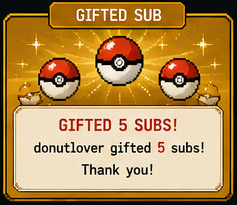
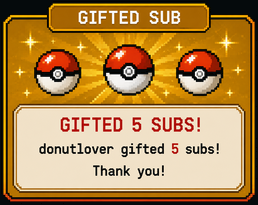
polish alerts

diff --git a/test_events.py b/test_events.py
@@ -3,20 +3,39 @@ import json
 import sys
 import time
 from pathlib import Path
+from sound_engine import SoundEngine
 
 BASE = Path(__file__).resolve().parent
 CFG = json.loads((BASE / "config.json").read_text(encoding="utf-8"))
 EVENT_PATH = BASE / CFG["overlay"]["event_file"]
 STATE_PATH = BASE / CFG["overlay"]["state_file"]
 PREVIEW_PATH = BASE / CFG["overlay"].get("effect_preview_file", "overlay_effect_preview.json")
+STREAM = CFG.get("stream_system", {})
+SOUND = SoundEngine(BASE / "assets" / "sounds", STREAM.get("sound_enabled", True), STREAM.get("sound_volume", 0.35))
 EFFECT_DURATIONS = {
     rule["effect"]: float(rule.get("duration_seconds", 60))
     for rule in CFG.get("events", {}).get("cheer_effects", [])
+}
+EFFECT_SOUNDS = {
+    "double_votes": "double_votes.wav",
+    "speed_round": "speed_round.wav",
+    "chaos": "chaos.wav",
+    "reverse_controls": "reverse_controls.wav",
+    "king_mode": "gym_win.wav",
+}
+KIND_SOUNDS = {
+    "subscriber": "subscriber.wav",
+    "gift_sub": "gift_sub.wav",
+    "resub": "subscriber.wav",
 }
 
 
 def send(kind, title, subtitle, extra=None, duration=5):
     extra = extra or {}
+    if kind == "world_event" and extra.get("effect"):
+        extra.setdefault("user", "TestTrainer")
+        extra.setdefault("source", extra["user"])
+        extra.setdefault("amount", extra.get("bits", 0))
     payload = {
         "id": time.time_ns(),
         "kind": kind,
@@ -31,6 +50,9 @@ def send(kind, title, subtitle, extra=None, duration=5):
     tmp.replace(EVENT_PATH)
     if kind == "world_event" and extra.get("effect"):
         preview_effect(extra["effect"], EFFECT_DURATIONS.get(extra["effect"], 60))
+    sound = EFFECT_SOUNDS.get(extra.get("effect")) or KIND_SOUNDS.get(kind)
+    if sound:
+        SOUND.play(sound)
     print("Sent:", title, extra or "")
 
 

diff --git a/overlay_app.py b/overlay_app.py
@@ -761,7 +761,37 @@ class Overlay(QWidget):
                 color = QColor(255, 186 + (i % 3) * 20, 48, int(alpha * (1 - phase) * .82))
             p.setBrush(QBrush(color))
             p.drawEllipse(QPointF(self.tx(sx + drift), self.ty(sy)), self.tw(size), self.th(size))
+        self.draw_effect_card_meta(p, x, y, w, h, alpha)
         p.restore()
+
+    def draw_effect_card_meta(self, p, x, y, w, h, alpha):
+        extra = self.event.get("extra", {}) if self.event else {}
+        user = str(extra.get("user") or extra.get("source") or "").strip()
+        bits = extra.get("bits", extra.get("amount", 0))
+        try:
+            bits = int(bits)
+        except (TypeError, ValueError):
+            bits = 0
+        if not user and not bits:
+            return
+
+        if user and bits:
+            text = f"{user} - {bits:,} Bits"
+        elif user:
+            text = user
+        else:
+            text = f"{bits:,} Bits"
+
+        pill_w = min(w - 28, max(150, len(text) * 8.8 + 34))
+        pill_h = 26
+        pill_x = x + (w - pill_w) / 2
+        pill_y = y + h - pill_h - 9
+        self.rounded(p, pill_x, pill_y, pill_w, pill_h, QColor(8, 10, 11, int(alpha * .84)), GOLD, 6, 1)
+        p.setFont(self.font(10, True))
+        text = p.fontMetrics().elidedText(text, Qt.ElideRight, max(1, int(self.tw(pill_w - 20))))
+        p.setPen(WHITE)
+        p.drawText(QRectF(self.tx(pill_x + 10), self.ty(pill_y - 1), self.tw(pill_w - 20), self.th(pill_h + 2)),
+                   Qt.AlignCenter, text)
 
     def draw_alert(self, p):
         if not self.event:

diff --git a/main.py b/main.py
@@ -210,8 +210,8 @@ class App:
         if effect=="king_mode" and user:
             subtitle=f"{user} is king for {int(duration)} seconds"
         self.events.alert("world_event",labels.get(effect,effect.upper()),
-                          subtitle,
-                          {"effect":effect},3.2,sound)
+                           subtitle,
+                           {"effect":effect,"user":user,"source":user,"amount":amount,"bits":amount,"duration":duration},3.2,sound)
         if user:
             self.db.record_event(user, amount)
         if effect=="king_mode":
